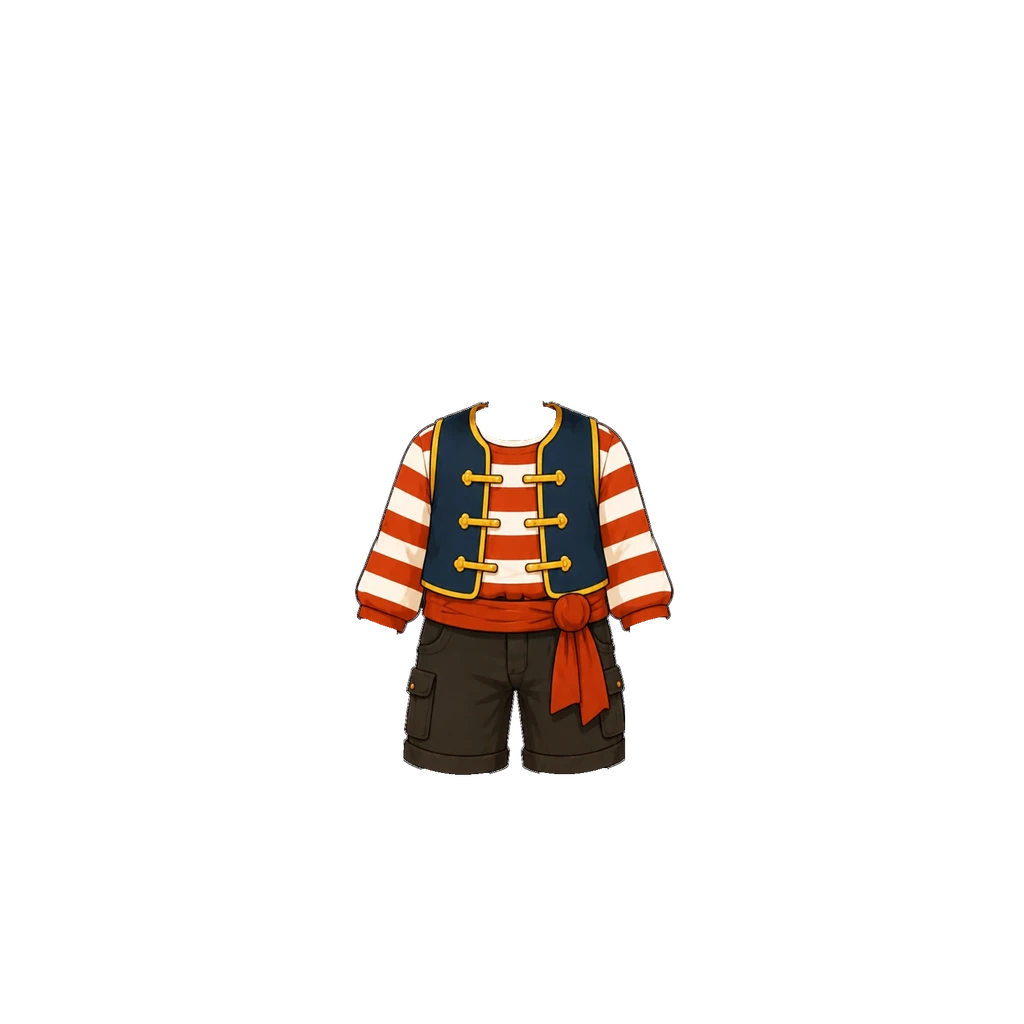
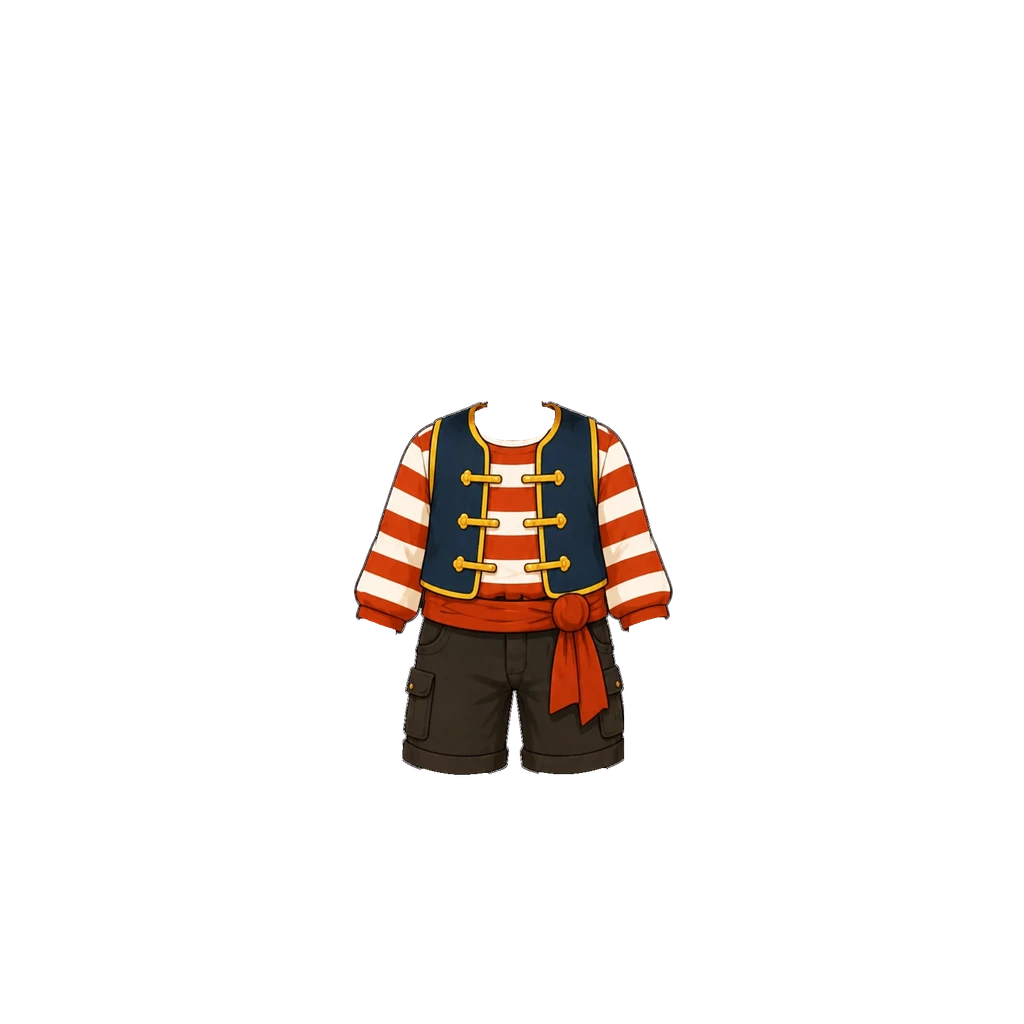
꼬마 해적단(남아) 옷 왼쪽으로 1 (#924)
원화 원점 (263,-37)→(262,-37). img ?v=4(여아·가방 그대로).

Claude-Session: https://claude.ai/code/session_018maNuYqDfFyRSe9uKpZhPR

diff --git a/src/data/avatarEquipment.js b/src/data/avatarEquipment.js
@@ -393,9 +393,9 @@ export const AVATAR_CATALOG = [
      배율 0.70(원화 목 폭 63 → 여아 목 44, 흰 수영복도 이 값부터 다 가려진다). 원화 목은 페이드. imgGirl ?v=4 · thumbGirl ?v=2.
      [2026-10-02] 사용자 수정판으로 교체 — 반바지 밑단 아래가 조금 늘었다. 같은 탑재값. imgGirl ?v=5 · thumbGirl ?v=3.
      [2026-10-05] 사용자 조정 — 남아 그림만 아래로 3. 남아 탑재 상자 (356,398,673,769). img ?v=2.
-     [2026-10-05] 남아 2% 크게(원화 배율 0.59329 → 0.60516, 깃 위 가운데 (514.5,398) 고정) 후 아래로 1, 원화 원점 (263,-37).
-     남아 탑재 상자 (353,399,676,777). img ?v=3. */
-  { id: "top_pirate",     slot: "top",   label: "꼬마 해적단",     emoji: "🏴☠", price:DECOR_PRICE.epic, rarity: "epic", theme: "pirate", coversBottom: true, img: "assets/avatar/top/pirate-outfit-boy.webp?v=3", imgGirl: "assets/avatar/top/pirate-outfit-girl.webp?v=5", thumb: "assets/avatar/thumb/top_pirate.webp?v=2", thumbGirl: "assets/avatar/thumb/top_pirate-girl.webp?v=4" },
+     [2026-10-05] 남아 2% 크게·아래로 1 후 왼쪽으로 1, 원화 배율 0.60516·원점 (262,-37).
+     남아 탑재 상자 (352,399,675,777). img ?v=4. */
+  { id: "top_pirate",     slot: "top",   label: "꼬마 해적단",     emoji: "🏴☠", price:DECOR_PRICE.epic, rarity: "epic", theme: "pirate", coversBottom: true, img: "assets/avatar/top/pirate-outfit-boy.webp?v=4", imgGirl: "assets/avatar/top/pirate-outfit-girl.webp?v=5", thumb: "assets/avatar/thumb/top_pirate.webp?v=2", thumbGirl: "assets/avatar/thumb/top_pirate-girl.webp?v=4" },
   /* 민트 후드 — 남아 전용 첫 아이템(forGender:"boy"). 크림 후드 + 왼팔만 보라 소매 +
      민트 후드 안감·꽃 패치 + 짙은 카고 반바지. 상·하의가 한 장이라 상의 슬롯 하나.
      원화는 옷만 오려 낸 깨끗한 그림인데 **후드 안쪽 목·가슴 살은 일부러 남겼다** —

diff --git a/art-src/README.md b/art-src/README.md
@@ -623,4 +623,4 @@ bbox로 여백만 잘라내고 배포본은 높이 480px로 축소했다(전부 
 | acorn-hat-boy-src.webp | **도토리 모자 원화 남아 — 모자+얼굴 한 장 (사용자 원화 2026-10-05)** — 갈색 도토리 비니(새싹 꼭지). hidesHead 로 기본 머리를 대신한다. 얼굴 템플릿 매칭(일치 0.893)으로 배율 0.672·원점 (341,46), y404 아래 자름. 탑재 상자 (342,46,690,397). **[2026-10-05 조정]** 3% 크게(0.6922, 원점 (336,36)) · img ?v=2. 아래로 2(원점 (336,38)) · img ?v=3. 상점 그림은 원화를 세로 160px 로 | avatar/hat/acorn-hat-boy.webp · thumb/hat_acorn_boy.webp |
 | captain-hat-boy-src.webp | **꼬마선장 모자 원화 남아 — 모자+얼굴 한 장 (사용자 원화 2026-10-05)** — 파란 선장 모자(흰 띠·닻 배지). hidesHead 로 기본 머리를 대신한다. 얼굴 템플릿 매칭(일치 0.907)으로 배율 0.684·원점 (336,70), y404 아래 자름. 탑재 상자 (336,70,694,394). **[2026-10-05 조정]** 3% 크게(0.7045, 원점 (331,60)) · img ?v=2. 아래로 5·왼쪽 1(원점 (330,65)) · img ?v=3. 왼쪽 1·아래로 2 더(원점 (329,67)) · img ?v=4. 상점 그림은 원화를 세로 160px 로 | avatar/hat/captain-hat-boy.webp · thumb/hat_captain_boy.webp |
 | explorer-pack-boy-src.webp · explorer-pack-straps-boy-src.webp | **해적 가방 원화 남아(처음 이름 탐험 가방) (사용자 원화 2026-10-05)** — 가방 몸통 290×373(가죽 배낭+지도 두루마리)·어깨끈 263×198, 투명 배경. 가방은 몸 뒤(z15) 배율 0.70·원점 (505,350), 끈은 옷 위(zFront 48) 배율 0.76·가운데 x516·위끝 y414. 가방 상자 (505,350,708,611) · 끈 상자 (416,414,616,564). **[2026-10-05 조정]** 왼쪽 끈 →30·오른쪽 끈 ←30, 가방 위로 20·오른쪽 10(원점 (515,330)), 끈 상자 (446,414,586,564) · 가방 상자 (515,330,718,591) · ?v=2. 끈만 다시: 처음 자리에서 버클 아래 바깥 끝선을 옆구리 선에 맞춰 왼쪽 끈 →15·오른쪽 끈 ←17, 끈 상자 (431,414,599,564) · imgFront ?v=3. 끈 윗선을 어깨선에 맞춰 왼쪽 위로 7·오른쪽 위로 6, 끈 상자 (431,407,599,557) · imgFront ?v=4. 가방 몸통 아래로 10·왼쪽 7(원점 (508,340)), 가방 상자 (508,340,711,601) · img ?v=3. 끈 윗선을 꼬마 해적단 옷 어깨선에 맞춰 양쪽 위로 4, 끈 상자 (431,403,599,553) · imgFront ?v=5. 상점 그림은 가방 원화를 세로 160px 로 | avatar/back/explorer-pack-boy.webp · explorer-pack-straps-boy.webp · thumb/back_explorer.webp |
-| pirate-boy-worn-src.webp | **꼬마 해적단 남아 탑재 조정 기록 (2026-10-05)** — 원본 행이 없어 조정만 남긴다. 사용자 조정: 남아 그림만 아래로 3, 탑재 상자 (356,395,673,766) → (356,398,673,769) · img ?v=2. 이어서 2% 크게(원화 배율 0.59329→0.60516, 깃 위 가운데 고정)·아래로 1, 원화 원점 (263,-37), 상자 (353,399,676,777) · img ?v=3. 여아 그림(imgGirl)은 그대로 | avatar/top/pirate-outfit-boy.webp |
+| pirate-boy-worn-src.webp | **꼬마 해적단 남아 탑재 조정 기록 (2026-10-05)** — 원본 행이 없어 조정만 남긴다. 사용자 조정: 남아 그림만 아래로 3, 탑재 상자 (356,395,673,766) → (356,398,673,769) · img ?v=2. 이어서 2% 크게(원화 배율 0.59329→0.60516, 깃 위 가운데 고정)·아래로 1, 원화 원점 (263,-37), 상자 (353,399,676,777) · img ?v=3. 이어서 왼쪽 1, 원점 (262,-37), 상자 (352,399,675,777) · img ?v=4. 여아 그림(imgGirl)은 그대로 | avatar/top/pirate-outfit-boy.webp |
